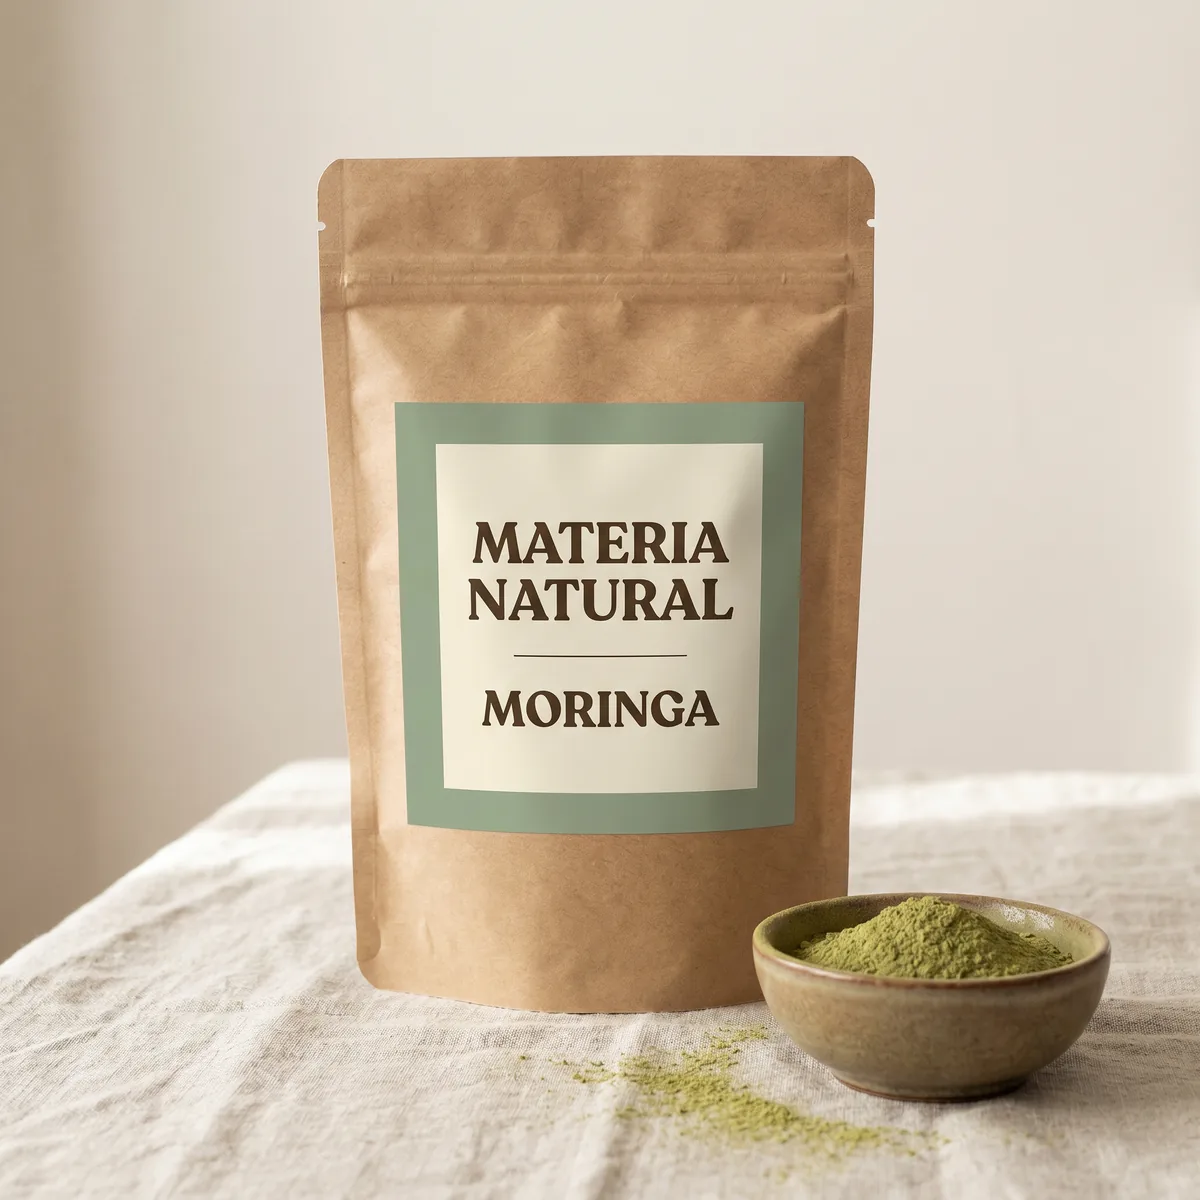
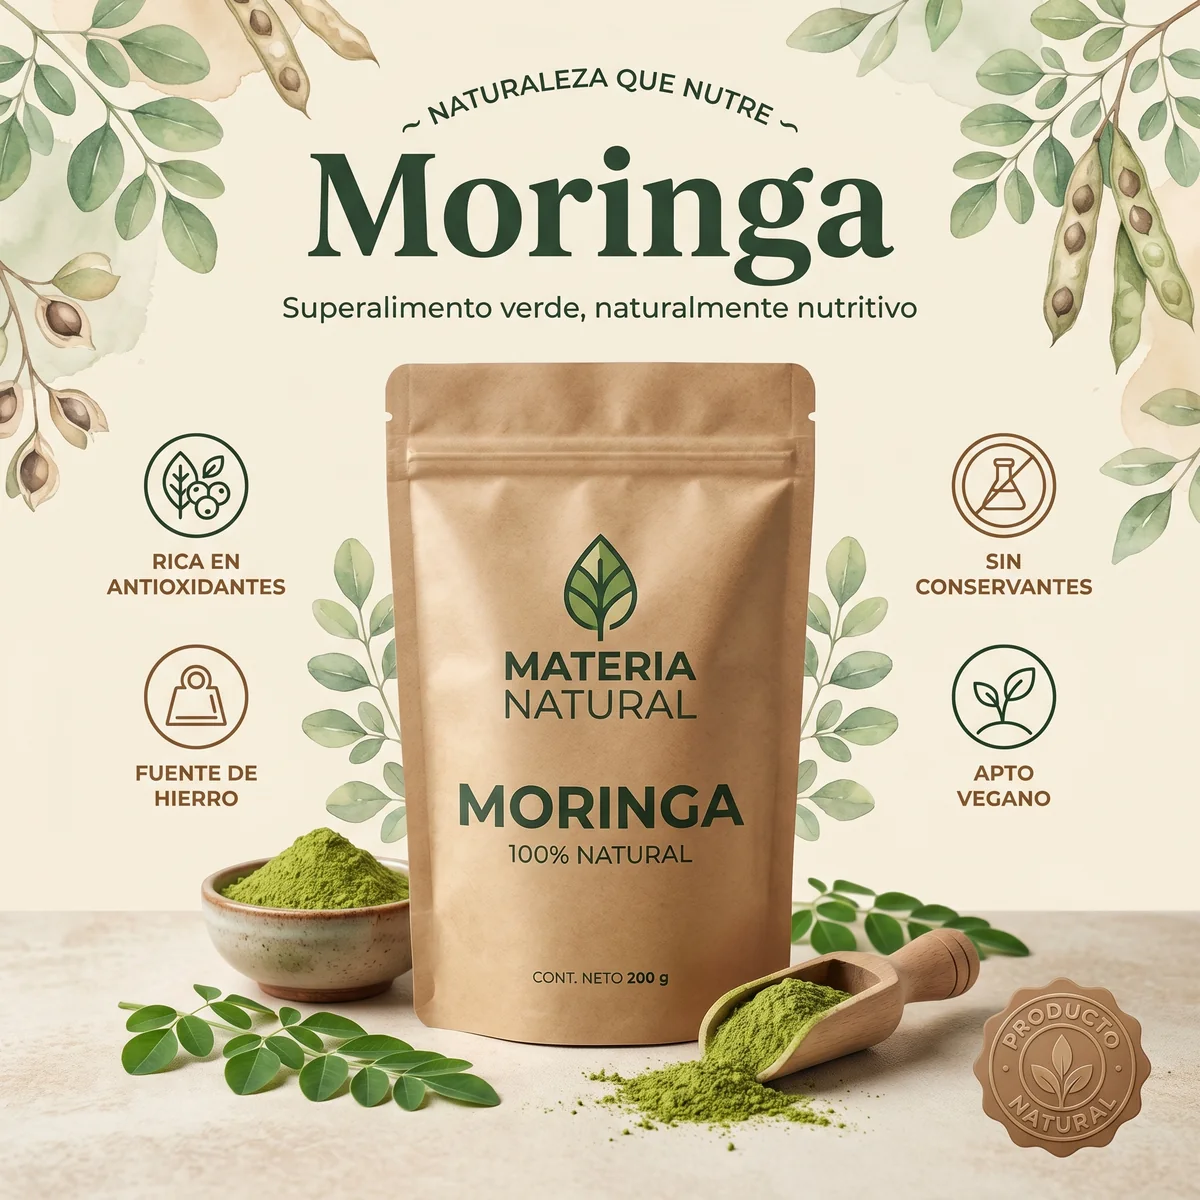
feat(catalogo): 505 productos + 2525 recetas (lote 4: medicina natural/bienestar)
+214 productos (hierbas medicinales, adaptogenos, fermentos, algas,
especias, harinas, aceites, infusiones). 5 recetas c/u via motor.
Estilo packshot rico Materia Natural confirmado (lino, moringa).

diff --git a/src/data/extraProducts4.ts b/src/data/extraProducts4.ts
@@ -1,0 +1,260 @@
+import type { SeedProduct } from './productEngine';
+
+// Catálogo extendido — Lote 4. Productos de bienestar y medicina natural
+// (hierbas, especias, adaptógenos, fermentos, algas, etc.). Lenguaje seguro:
+// el motor de fichas no hace afirmaciones médicas.
+export const extraSeeds4: SeedProduct[] = [
+  // ── Hierbas medicinales y aromáticas ──
+  { slug: 'albahaca', nombre: 'Albahaca', categoria: 'Hierba', nombreCientifico: 'Ocimum basilicum', hue: 140, casosDeUso: ['digestion'] },
+  { slug: 'perejil', nombre: 'Perejil', categoria: 'Hierba', nombreCientifico: 'Petroselinum crispum', hue: 130, casosDeUso: ['defensas', 'huesos'] },
+  { slug: 'cilantro-fresco', nombre: 'Cilantro', categoria: 'Hierba', nombreCientifico: 'Coriandrum sativum', hue: 135, casosDeUso: ['digestion'] },
+  { slug: 'estragon', nombre: 'Estragón', categoria: 'Hierba', nombreCientifico: 'Artemisia dracunculus', hue: 120, casosDeUso: ['digestion'] },
+  { slug: 'hierba-de-san-juan', nombre: 'Hierba de San Juan', categoria: 'Hierba', nombreCientifico: 'Hypericum perforatum', hue: 55, casosDeUso: ['descanso', 'mente'] },
+  { slug: 'damiana', nombre: 'Damiana', categoria: 'Hierba', nombreCientifico: 'Turnera diffusa', hue: 45, casosDeUso: ['energia', 'descanso'] },
+  { slug: 'ajenjo', nombre: 'Ajenjo', categoria: 'Hierba', nombreCientifico: 'Artemisia absinthium', hue: 110, casosDeUso: ['digestion'] },
+  { slug: 'ruda', nombre: 'Ruda', categoria: 'Hierba', nombreCientifico: 'Ruta graveolens', hue: 115, casosDeUso: ['digestion'] },
+  { slug: 'artemisa', nombre: 'Artemisa', categoria: 'Hierba', nombreCientifico: 'Artemisia vulgaris', hue: 120, casosDeUso: ['digestion', 'descanso'] },
+  { slug: 'borraja', nombre: 'Borraja', categoria: 'Hierba', nombreCientifico: 'Borago officinalis', hue: 210, casosDeUso: ['defensas', 'piel-cabello'] },
+  { slug: 'consuelda', nombre: 'Consuelda', categoria: 'Hierba', nombreCientifico: 'Symphytum officinale', hue: 150, casosDeUso: ['articulaciones', 'piel-cabello'] },
+  { slug: 'verbena', nombre: 'Verbena', categoria: 'Hierba', nombreCientifico: 'Verbena officinalis', hue: 270, casosDeUso: ['descanso', 'digestion'] },
+  { slug: 'hisopo', nombre: 'Hisopo', categoria: 'Hierba', nombreCientifico: 'Hyssopus officinalis', hue: 260, casosDeUso: ['defensas'] },
+  { slug: 'congorosa', nombre: 'Congorosa', categoria: 'Hierba', nombreCientifico: 'Maytenus ilicifolia', hue: 150, casosDeUso: ['digestion'] },
+  { slug: 'ambay', nombre: 'Ambay', categoria: 'Hierba', nombreCientifico: 'Cecropia pachystachya', hue: 140, casosDeUso: ['defensas'] },
+  { slug: 'jarilla', nombre: 'Jarilla', categoria: 'Hierba', nombreCientifico: 'Larrea divaricata', hue: 90, casosDeUso: ['articulaciones'] },
+  { slug: 'sarandi-blanco', nombre: 'Sarandí blanco', categoria: 'Hierba', nombreCientifico: 'Phyllanthus sellowianus', hue: 145, casosDeUso: ['digestion'] },
+  { slug: 'yerba-carnicera', nombre: 'Yerba carnicera', categoria: 'Hierba', nombreCientifico: 'Conyza bonariensis', hue: 120, casosDeUso: ['digestion'] },
+  { slug: 'ajedrea', nombre: 'Ajedrea', categoria: 'Hierba', nombreCientifico: 'Satureja hortensis', hue: 110, casosDeUso: ['digestion'] },
+  { slug: 'mejorana', nombre: 'Mejorana', categoria: 'Hierba', nombreCientifico: 'Origanum majorana', hue: 100, casosDeUso: ['descanso', 'digestion'] },
+  { slug: 'cardosanto', nombre: 'Cardo santo', categoria: 'Hierba', nombreCientifico: 'Cnicus benedictus', hue: 70, casosDeUso: ['digestion'] },
+  { slug: 'fumaria', nombre: 'Fumaria', categoria: 'Hierba', nombreCientifico: 'Fumaria officinalis', hue: 280, casosDeUso: ['digestion', 'piel-cabello'] },
+  { slug: 'agrimonia', nombre: 'Agrimonia', categoria: 'Hierba', nombreCientifico: 'Agrimonia eupatoria', hue: 60, casosDeUso: ['digestion'] },
+  { slug: 'menta-piperita', nombre: 'Menta piperita', categoria: 'Hierba', nombreCientifico: 'Mentha piperita', hue: 150, casosDeUso: ['digestion'] },
+  { slug: 'ortiga-blanca', nombre: 'Ortiga blanca', categoria: 'Hierba', nombreCientifico: 'Lamium album', hue: 90, casosDeUso: ['piel-cabello'] },
+  { slug: 'espino-blanco', nombre: 'Espino blanco', categoria: 'Hierba', nombreCientifico: 'Crataegus monogyna', hue: 0, casosDeUso: ['circulacion', 'descanso'] },
+  { slug: 'tulsi', nombre: 'Tulsi (albahaca sagrada)', categoria: 'Hierba', nombreCientifico: 'Ocimum tenuiflorum', hue: 130, casosDeUso: ['descanso', 'defensas'] },
+  { slug: 'ciboulette', nombre: 'Ciboulette', categoria: 'Hierba', nombreCientifico: 'Allium schoenoprasum', hue: 120, casosDeUso: ['digestion'] },
+  { slug: 'albahaca-morada', nombre: 'Albahaca morada', categoria: 'Hierba', nombreCientifico: 'Ocimum basilicum', hue: 300, casosDeUso: ['digestion'] },
+  { slug: 'menta-marroqui', nombre: 'Menta marroquí', categoria: 'Hierba', nombreCientifico: 'Mentha spicata', hue: 145, casosDeUso: ['digestion'] },
+  { slug: 'stevia-en-hojas', nombre: 'Stevia en hojas', categoria: 'Hierba', nombreCientifico: 'Stevia rebaudiana', hue: 130, casosDeUso: ['control-peso'] },
+  { slug: 'matico', nombre: 'Matico', categoria: 'Hierba', nombreCientifico: 'Buddleja globosa', hue: 60, casosDeUso: ['digestion'] },
+  { slug: 'bailahuen', nombre: 'Bailahuén', categoria: 'Hierba', nombreCientifico: 'Haplopappus baylahuen', hue: 55, casosDeUso: ['digestion'] },
+  { slug: 'paico', nombre: 'Paico', categoria: 'Hierba', nombreCientifico: 'Dysphania ambrosioides', hue: 120, casosDeUso: ['digestion'] },
+  { slug: 'manzanilla-romana', nombre: 'Manzanilla romana', categoria: 'Hierba', nombreCientifico: 'Chamaemelum nobile', hue: 60, casosDeUso: ['descanso'] },
+  { slug: 'amapola-de-california', nombre: 'Amapola de California', categoria: 'Hierba', nombreCientifico: 'Eschscholzia californica', hue: 40, casosDeUso: ['descanso'] },
+  { slug: 'tomillo-limon', nombre: 'Tomillo limón', categoria: 'Hierba', nombreCientifico: 'Thymus citriodorus', hue: 70, casosDeUso: ['defensas'] },
+
+  // ── Superalimentos y adaptógenos ──
+  { slug: 'ashwagandha', nombre: 'Ashwagandha', categoria: 'Superalimento', nombreCientifico: 'Withania somnifera', hue: 40, casosDeUso: ['descanso', 'mente'] },
+  { slug: 'rhodiola', nombre: 'Rhodiola', categoria: 'Superalimento', nombreCientifico: 'Rhodiola rosea', hue: 350, casosDeUso: ['energia', 'mente'] },
+  { slug: 'schisandra', nombre: 'Schisandra', categoria: 'Superalimento', nombreCientifico: 'Schisandra chinensis', hue: 10, casosDeUso: ['energia', 'defensas'] },
+  { slug: 'astragalo', nombre: 'Astrágalo', categoria: 'Superalimento', nombreCientifico: 'Astragalus membranaceus', hue: 50, casosDeUso: ['defensas'] },
+  { slug: 'chaga', nombre: 'Chaga', categoria: 'Superalimento', nombreCientifico: 'Inonotus obliquus', hue: 30, casosDeUso: ['defensas'] },
+  { slug: 'shiitake', nombre: 'Shiitake', categoria: 'Superalimento', nombreCientifico: 'Lentinula edodes', hue: 35, casosDeUso: ['defensas'] },
+  { slug: 'maitake', nombre: 'Maitake', categoria: 'Superalimento', nombreCientifico: 'Grifola frondosa', hue: 40, casosDeUso: ['defensas'] },
+  { slug: 'tribulus', nombre: 'Tríbulus', categoria: 'Superalimento', nombreCientifico: 'Tribulus terrestris', hue: 55, casosDeUso: ['energia'] },
+  { slug: 'clorofila', nombre: 'Clorofila', categoria: 'Superalimento', hue: 140, casosDeUso: ['defensas', 'piel-cabello'] },
+  { slug: 'noni', nombre: 'Noni', categoria: 'Superalimento', nombreCientifico: 'Morinda citrifolia', hue: 45, casosDeUso: ['defensas'] },
+  { slug: 'mangostan', nombre: 'Mangostán', categoria: 'Superalimento', nombreCientifico: 'Garcinia mangostana', hue: 330, casosDeUso: ['defensas'] },
+  { slug: 'aronia', nombre: 'Aronia', categoria: 'Superalimento', nombreCientifico: 'Aronia melanocarpa', hue: 300, casosDeUso: ['circulacion', 'defensas'] },
+  { slug: 'algarroba', nombre: 'Algarroba en polvo', categoria: 'Superalimento', nombreCientifico: 'Prosopis alba', hue: 35, casosDeUso: ['energia', 'digestion'] },
+  { slug: 'acerola', nombre: 'Acerola', categoria: 'Superalimento', nombreCientifico: 'Malpighia emarginata', hue: 10, casosDeUso: ['defensas'] },
+  { slug: 'rosa-mosqueta', nombre: 'Rosa mosqueta', categoria: 'Superalimento', nombreCientifico: 'Rosa canina', hue: 20, casosDeUso: ['piel-cabello', 'defensas'] },
+  { slug: 'lecitina-de-soja', nombre: 'Lecitina de soja', categoria: 'Superalimento', nombreCientifico: 'Glycine max', hue: 50, casosDeUso: ['mente', 'circulacion'] },
+  { slug: 'colageno-hidrolizado', nombre: 'Colágeno hidrolizado', categoria: 'Superalimento', hue: 30, casosDeUso: ['piel-cabello', 'articulaciones'] },
+  { slug: 'colageno-marino', nombre: 'Colágeno marino', categoria: 'Superalimento', hue: 200, casosDeUso: ['piel-cabello'] },
+  { slug: 'acido-hialuronico', nombre: 'Ácido hialurónico', categoria: 'Superalimento', hue: 280, casosDeUso: ['piel-cabello'] },
+  { slug: 'magnesio-en-polvo', nombre: 'Magnesio en polvo', categoria: 'Superalimento', hue: 200, casosDeUso: ['descanso', 'articulaciones'] },
+  { slug: 'proteina-de-suero', nombre: 'Proteína de suero', categoria: 'Superalimento', hue: 40, casosDeUso: ['energia', 'articulaciones'] },
+  { slug: 'proteina-vegetal-mix', nombre: 'Proteína vegetal (mix)', categoria: 'Superalimento', hue: 120, casosDeUso: ['energia'] },
+  { slug: 'cacao-crudo', nombre: 'Cacao crudo', categoria: 'Superalimento', nombreCientifico: 'Theobroma cacao', hue: 30, casosDeUso: ['mente', 'energia'] },
+  { slug: 'omega-3-vegetal', nombre: 'Omega 3 vegetal', categoria: 'Superalimento', hue: 200, casosDeUso: ['mente', 'circulacion'] },
+  { slug: 'fibra-de-acacia', nombre: 'Fibra de acacia', categoria: 'Superalimento', nombreCientifico: 'Acacia senegal', hue: 50, casosDeUso: ['digestion'] },
+  { slug: 'inulina', nombre: 'Inulina', categoria: 'Superalimento', hue: 60, casosDeUso: ['digestion'] },
+  { slug: 'maca-negra', nombre: 'Maca negra', categoria: 'Superalimento', nombreCientifico: 'Lepidium meyenii', hue: 280, casosDeUso: ['energia'] },
+
+  // ── Raíces ──
+  { slug: 'angelica', nombre: 'Angélica', categoria: 'Raíz', nombreCientifico: 'Angelica archangelica', hue: 60, casosDeUso: ['digestion'] },
+  { slug: 'galanga', nombre: 'Galanga', categoria: 'Raíz', nombreCientifico: 'Alpinia galanga', hue: 45, casosDeUso: ['digestion'] },
+  { slug: 'eleuterococo', nombre: 'Eleuterococo', categoria: 'Raíz', nombreCientifico: 'Eleutherococcus senticosus', hue: 40, casosDeUso: ['energia'] },
+  { slug: 'helenio', nombre: 'Helenio', categoria: 'Raíz', nombreCientifico: 'Inula helenium', hue: 55, casosDeUso: ['defensas'] },
+  { slug: 'ratania', nombre: 'Ratania', categoria: 'Raíz', nombreCientifico: 'Krameria lappacea', hue: 20, casosDeUso: ['digestion'] },
+  { slug: 'raiz-de-malvavisco', nombre: 'Raíz de malvavisco', categoria: 'Raíz', nombreCientifico: 'Althaea officinalis', hue: 60, casosDeUso: ['digestion'] },
+  { slug: 'ginseng-rojo', nombre: 'Ginseng rojo', categoria: 'Raíz', nombreCientifico: 'Panax ginseng', hue: 20, casosDeUso: ['energia'] },
+  { slug: 'rabano-negro', nombre: 'Rábano negro', categoria: 'Raíz', nombreCientifico: 'Raphanus sativus niger', hue: 280, casosDeUso: ['digestion', 'defensas'] },
+
+  // ── Especias ──
+  { slug: 'pimienta-de-cayena', nombre: 'Pimienta de cayena', categoria: 'Especia', nombreCientifico: 'Capsicum annuum', hue: 25, casosDeUso: ['circulacion', 'energia'] },
+  { slug: 'pimienta-rosa', nombre: 'Pimienta rosa', categoria: 'Especia', nombreCientifico: 'Schinus molle', hue: 350, casosDeUso: ['digestion'] },
+  { slug: 'pimienta-de-jamaica', nombre: 'Pimienta de Jamaica', categoria: 'Especia', nombreCientifico: 'Pimenta dioica', hue: 30, casosDeUso: ['digestion'] },
+  { slug: 'semillas-de-apio', nombre: 'Semillas de apio', categoria: 'Especia', nombreCientifico: 'Apium graveolens', hue: 80, casosDeUso: ['articulaciones'] },
+  { slug: 'comino-negro', nombre: 'Comino negro', categoria: 'Especia', nombreCientifico: 'Nigella sativa', hue: 250, casosDeUso: ['defensas', 'digestion'] },
+  { slug: 'alcaravea', nombre: 'Alcaravea', categoria: 'Especia', nombreCientifico: 'Carum carvi', hue: 70, casosDeUso: ['digestion'] },
+  { slug: 'enebro', nombre: 'Enebro', categoria: 'Especia', nombreCientifico: 'Juniperus communis', hue: 200, casosDeUso: ['articulaciones', 'digestion'] },
+  { slug: 'sumac', nombre: 'Sumac', categoria: 'Especia', nombreCientifico: 'Rhus coriaria', hue: 20, casosDeUso: ['defensas'] },
+  { slug: 'anis-verde', nombre: 'Anís verde', categoria: 'Especia', nombreCientifico: 'Pimpinella anisum', hue: 70, casosDeUso: ['digestion'] },
+  { slug: 'garam-masala', nombre: 'Garam masala', categoria: 'Especia', hue: 30, casosDeUso: ['digestion'] },
+  { slug: 'ras-el-hanout', nombre: 'Ras el hanout', categoria: 'Especia', hue: 30, casosDeUso: ['digestion'] },
+  { slug: 'zaatar', nombre: 'Zaatar', categoria: 'Especia', hue: 60, casosDeUso: ['digestion'] },
+  { slug: 'jengibre-en-polvo', nombre: 'Jengibre en polvo', categoria: 'Especia', nombreCientifico: 'Zingiber officinale', hue: 45, casosDeUso: ['digestion'] },
+  { slug: 'ajo-negro', nombre: 'Ajo negro', categoria: 'Especia', nombreCientifico: 'Allium sativum', hue: 30, casosDeUso: ['circulacion', 'defensas'] },
+  { slug: 'pimienta-verde', nombre: 'Pimienta verde', categoria: 'Especia', nombreCientifico: 'Piper nigrum', hue: 130, casosDeUso: ['digestion'] },
+  { slug: 'pimienta-szechuan', nombre: 'Pimienta de Szechuan', categoria: 'Especia', nombreCientifico: 'Zanthoxylum', hue: 20, casosDeUso: ['digestion'] },
+  { slug: 'wasabi-en-polvo', nombre: 'Wasabi en polvo', categoria: 'Especia', nombreCientifico: 'Eutrema japonicum', hue: 120, casosDeUso: ['defensas'] },
+  { slug: 'achiote', nombre: 'Achiote (urucum)', categoria: 'Especia', nombreCientifico: 'Bixa orellana', hue: 25, casosDeUso: ['piel-cabello'] },
+  { slug: 'curry-rojo', nombre: 'Curry rojo', categoria: 'Especia', hue: 20, casosDeUso: ['digestion'] },
+  { slug: 'curry-verde', nombre: 'Curry verde', categoria: 'Especia', hue: 120, casosDeUso: ['digestion'] },
+  { slug: 'chile-chipotle', nombre: 'Chile chipotle', categoria: 'Especia', nombreCientifico: 'Capsicum annuum', hue: 25, casosDeUso: ['circulacion'] },
+  { slug: 'pimenton-ahumado', nombre: 'Pimentón ahumado', categoria: 'Especia', nombreCientifico: 'Capsicum annuum', hue: 20, casosDeUso: ['digestion'] },
+
+  // ── Semillas ──
+  { slug: 'psyllium', nombre: 'Psyllium', categoria: 'Semilla', nombreCientifico: 'Plantago ovata', hue: 60, casosDeUso: ['digestion', 'control-peso'] },
+  { slug: 'semillas-de-lino-molido', nombre: 'Lino molido', categoria: 'Semilla', nombreCientifico: 'Linum usitatissimum', hue: 40, casosDeUso: ['digestion'] },
+  { slug: 'semillas-de-girasol-tostadas', nombre: 'Girasol tostado', categoria: 'Semilla', nombreCientifico: 'Helianthus annuus', hue: 60, casosDeUso: ['energia'] },
+  { slug: 'semillas-de-brocoli', nombre: 'Semillas de brócoli', categoria: 'Semilla', nombreCientifico: 'Brassica oleracea', hue: 120, casosDeUso: ['defensas'] },
+  { slug: 'semillas-de-alfalfa', nombre: 'Semillas de alfalfa', categoria: 'Semilla', nombreCientifico: 'Medicago sativa', hue: 110, casosDeUso: ['defensas'] },
+
+  // ── Frutas secas / deshidratadas ──
+  { slug: 'aguaymanto', nombre: 'Aguaymanto deshidratado', categoria: 'Fruta seca', nombreCientifico: 'Physalis peruviana', hue: 50, casosDeUso: ['defensas'] },
+  { slug: 'mora-deshidratada', nombre: 'Mora deshidratada', categoria: 'Fruta seca', hue: 310, casosDeUso: ['defensas'] },
+  { slug: 'durazno-deshidratado', nombre: 'Durazno deshidratado', categoria: 'Fruta seca', hue: 30, casosDeUso: ['digestion'] },
+  { slug: 'naranja-deshidratada', nombre: 'Naranja deshidratada', categoria: 'Fruta seca', hue: 40, casosDeUso: ['defensas'] },
+  { slug: 'limon-deshidratado', nombre: 'Limón deshidratado', categoria: 'Fruta seca', hue: 70, casosDeUso: ['defensas'] },
+  { slug: 'tomate-deshidratado', nombre: 'Tomate deshidratado', categoria: 'Fruta seca', hue: 20, casosDeUso: ['digestion'] },
+  { slug: 'frutilla-liofilizada', nombre: 'Frutilla liofilizada', categoria: 'Fruta seca', hue: 350, casosDeUso: ['defensas'] },
+  { slug: 'arandano-azul-seco', nombre: 'Arándano azul seco', categoria: 'Fruta seca', hue: 260, casosDeUso: ['mente', 'defensas'] },
+  { slug: 'grosella-seca', nombre: 'Grosella seca', categoria: 'Fruta seca', hue: 330, casosDeUso: ['defensas'] },
+  { slug: 'membrillo-deshidratado', nombre: 'Membrillo deshidratado', categoria: 'Fruta seca', hue: 40, casosDeUso: ['digestion'] },
+  { slug: 'melon-deshidratado', nombre: 'Melón deshidratado', categoria: 'Fruta seca', hue: 60, casosDeUso: ['energia'] },
+
+  // ── Legumbres ──
+  { slug: 'lenteja-verde', nombre: 'Lenteja verde', categoria: 'Legumbre', nombreCientifico: 'Lens culinaris', hue: 90, casosDeUso: ['energia', 'huesos'] },
+  { slug: 'lenteja-beluga', nombre: 'Lenteja beluga', categoria: 'Legumbre', nombreCientifico: 'Lens culinaris', hue: 280, casosDeUso: ['energia'] },
+  { slug: 'garbanzo-negro', nombre: 'Garbanzo negro', categoria: 'Legumbre', nombreCientifico: 'Cicer arietinum', hue: 30, casosDeUso: ['energia'] },
+  { slug: 'poroto-cranberry', nombre: 'Poroto cranberry', categoria: 'Legumbre', hue: 20, casosDeUso: ['energia'] },
+  { slug: 'frijol-pinto', nombre: 'Frijol pinto', categoria: 'Legumbre', hue: 30, casosDeUso: ['energia'] },
+  { slug: 'poroto-caupi', nombre: 'Poroto caupí', categoria: 'Legumbre', nombreCientifico: 'Vigna unguiculata', hue: 50, casosDeUso: ['energia'] },
+  { slug: 'lupino', nombre: 'Lupino', categoria: 'Legumbre', nombreCientifico: 'Lupinus albus', hue: 60, casosDeUso: ['energia'] },
+  { slug: 'soja-negra', nombre: 'Soja negra', categoria: 'Legumbre', nombreCientifico: 'Glycine max', hue: 280, casosDeUso: ['energia'] },
+  { slug: 'garbanzo-tostado', nombre: 'Garbanzo tostado', categoria: 'Legumbre', nombreCientifico: 'Cicer arietinum', hue: 40, casosDeUso: ['energia', 'control-peso'] },
+  { slug: 'lenteja-pardina', nombre: 'Lenteja pardina', categoria: 'Legumbre', nombreCientifico: 'Lens culinaris', hue: 40, casosDeUso: ['energia'] },
+  { slug: 'tofu', nombre: 'Tofu', categoria: 'Legumbre', nombreCientifico: 'Glycine max', hue: 60, casosDeUso: ['energia', 'huesos'] },
+
+  // ── Cereales ──
+  { slug: 'kamut', nombre: 'Kamut', categoria: 'Cereal', nombreCientifico: 'Triticum turanicum', hue: 60, casosDeUso: ['energia'] },
+  { slug: 'espelta', nombre: 'Espelta', categoria: 'Cereal', nombreCientifico: 'Triticum spelta', hue: 55, casosDeUso: ['energia'] },
+  { slug: 'sorgo', nombre: 'Sorgo', categoria: 'Cereal', nombreCientifico: 'Sorghum bicolor', hue: 50, casosDeUso: ['energia'] },
+  { slug: 'freekeh', nombre: 'Freekeh', categoria: 'Cereal', hue: 70, casosDeUso: ['energia'] },
+  { slug: 'arroz-salvaje', nombre: 'Arroz salvaje', categoria: 'Cereal', nombreCientifico: 'Zizania', hue: 120, casosDeUso: ['energia'] },
+  { slug: 'maiz-morado', nombre: 'Maíz morado', categoria: 'Cereal', nombreCientifico: 'Zea mays', hue: 300, casosDeUso: ['circulacion', 'defensas'] },
+  { slug: 'copos-de-trigo', nombre: 'Copos de trigo', categoria: 'Cereal', hue: 60, casosDeUso: ['energia'] },
+  { slug: 'avena-sin-gluten', nombre: 'Avena sin gluten', categoria: 'Cereal', nombreCientifico: 'Avena sativa', hue: 60, casosDeUso: ['energia', 'digestion'] },
+  { slug: 'arroz-jazmin', nombre: 'Arroz jazmín', categoria: 'Cereal', nombreCientifico: 'Oryza sativa', hue: 65, casosDeUso: ['energia'] },
+  { slug: 'arroz-negro', nombre: 'Arroz negro', categoria: 'Cereal', nombreCientifico: 'Oryza sativa', hue: 280, casosDeUso: ['circulacion'] },
+  { slug: 'copos-de-centeno', nombre: 'Copos de centeno', categoria: 'Cereal', hue: 60, casosDeUso: ['digestion'] },
+  { slug: 'copos-de-cebada', nombre: 'Copos de cebada', categoria: 'Cereal', hue: 65, casosDeUso: ['digestion'] },
+  { slug: 'trigo-inflado', nombre: 'Trigo inflado', categoria: 'Cereal', hue: 65, casosDeUso: ['energia'] },
+  { slug: 'arroz-inflado', nombre: 'Arroz inflado', categoria: 'Cereal', hue: 65, casosDeUso: ['energia'] },
+
+  // ── Pseudocereales ──
+  { slug: 'teff', nombre: 'Teff', categoria: 'Pseudocereal', nombreCientifico: 'Eragrostis tef', hue: 35, casosDeUso: ['energia', 'huesos'] },
+  { slug: 'kaniwa', nombre: 'Kañiwa', categoria: 'Pseudocereal', nombreCientifico: 'Chenopodium pallidicaule', hue: 30, casosDeUso: ['energia'] },
+
+  // ── Harinas ──
+  { slug: 'harina-de-avellanas', nombre: 'Harina de avellanas', categoria: 'Harina', nombreCientifico: 'Corylus avellana', hue: 35, casosDeUso: ['energia'] },
+  { slug: 'harina-de-sesamo', nombre: 'Harina de sésamo', categoria: 'Harina', nombreCientifico: 'Sesamum indicum', hue: 55, casosDeUso: ['huesos'] },
+  { slug: 'harina-de-girasol', nombre: 'Harina de girasol', categoria: 'Harina', nombreCientifico: 'Helianthus annuus', hue: 60, casosDeUso: ['energia'] },
+  { slug: 'harina-de-banana-verde', nombre: 'Harina de banana verde', categoria: 'Harina', nombreCientifico: 'Musa', hue: 60, casosDeUso: ['digestion'] },
+  { slug: 'harina-de-lenteja', nombre: 'Harina de lenteja', categoria: 'Harina', nombreCientifico: 'Lens culinaris', hue: 30, casosDeUso: ['energia'] },
+  { slug: 'harina-de-arveja', nombre: 'Harina de arveja', categoria: 'Harina', nombreCientifico: 'Pisum sativum', hue: 90, casosDeUso: ['energia'] },
+  { slug: 'harina-de-chia', nombre: 'Harina de chía', categoria: 'Harina', nombreCientifico: 'Salvia hispanica', hue: 55, casosDeUso: ['digestion'] },
+  { slug: 'harina-de-teff', nombre: 'Harina de teff', categoria: 'Harina', nombreCientifico: 'Eragrostis tef', hue: 35, casosDeUso: ['energia'] },
+
+  // ── Aceites ──
+  { slug: 'aceite-de-canamo', nombre: 'Aceite de cáñamo', categoria: 'Aceite', nombreCientifico: 'Cannabis sativa', hue: 120, casosDeUso: ['articulaciones', 'piel-cabello'] },
+  { slug: 'aceite-de-rosa-mosqueta', nombre: 'Aceite de rosa mosqueta', categoria: 'Aceite', nombreCientifico: 'Rosa canina', hue: 20, casosDeUso: ['piel-cabello'] },
+  { slug: 'aceite-de-ricino', nombre: 'Aceite de ricino', categoria: 'Aceite', nombreCientifico: 'Ricinus communis', hue: 60, casosDeUso: ['piel-cabello'] },
+  { slug: 'aceite-de-nuez', nombre: 'Aceite de nuez', categoria: 'Aceite', nombreCientifico: 'Juglans regia', hue: 45, casosDeUso: ['mente', 'circulacion'] },
+  { slug: 'aceite-de-comino-negro', nombre: 'Aceite de comino negro', categoria: 'Aceite', nombreCientifico: 'Nigella sativa', hue: 40, casosDeUso: ['defensas'] },
+  { slug: 'aceite-mct', nombre: 'Aceite MCT', categoria: 'Aceite', hue: 60, casosDeUso: ['energia', 'control-peso'] },
+  { slug: 'aceite-de-jojoba', nombre: 'Aceite de jojoba', categoria: 'Aceite', nombreCientifico: 'Simmondsia chinensis', hue: 55, casosDeUso: ['piel-cabello'] },
+  { slug: 'aceite-de-argan', nombre: 'Aceite de argán', categoria: 'Aceite', nombreCientifico: 'Argania spinosa', hue: 45, casosDeUso: ['piel-cabello'] },
+  { slug: 'aceite-de-onagra', nombre: 'Aceite de onagra', categoria: 'Aceite', nombreCientifico: 'Oenothera biennis', hue: 330, casosDeUso: ['piel-cabello'] },
+  { slug: 'aceite-de-sesamo-tostado', nombre: 'Aceite de sésamo tostado', categoria: 'Aceite', nombreCientifico: 'Sesamum indicum', hue: 40, casosDeUso: ['digestion'] },
+  { slug: 'aceite-de-zapallo', nombre: 'Aceite de zapallo', categoria: 'Aceite', nombreCientifico: 'Cucurbita', hue: 60, casosDeUso: ['articulaciones'] },
+
+  // ── Infusiones ──
+  { slug: 'te-oolong', nombre: 'Té oolong', categoria: 'Infusión', nombreCientifico: 'Camellia sinensis', hue: 60, casosDeUso: ['control-peso', 'mente'] },
+  { slug: 'te-de-jengibre', nombre: 'Té de jengibre', categoria: 'Infusión', nombreCientifico: 'Zingiber officinale', hue: 45, casosDeUso: ['digestion'] },
+  { slug: 'te-de-menta', nombre: 'Té de menta', categoria: 'Infusión', nombreCientifico: 'Mentha', hue: 150, casosDeUso: ['digestion'] },
+  { slug: 'te-de-canela', nombre: 'Té de canela', categoria: 'Infusión', hue: 30, casosDeUso: ['circulacion'] },
+  { slug: 'te-de-curcuma', nombre: 'Té de cúrcuma', categoria: 'Infusión', nombreCientifico: 'Curcuma longa', hue: 45, casosDeUso: ['articulaciones'] },
+  { slug: 'tisana-detox', nombre: 'Tisana detox', categoria: 'Infusión', hue: 130, casosDeUso: ['control-peso'] },
+  { slug: 'tisana-defensas', nombre: 'Tisana defensas', categoria: 'Infusión', hue: 30, casosDeUso: ['defensas'] },
+  { slug: 'tisana-circulacion', nombre: 'Tisana circulación', categoria: 'Infusión', hue: 0, casosDeUso: ['circulacion'] },
+  { slug: 'te-pu-erh', nombre: 'Té pu-erh', categoria: 'Infusión', nombreCientifico: 'Camellia sinensis', hue: 30, casosDeUso: ['control-peso', 'digestion'] },
+  { slug: 'te-de-rosa-mosqueta', nombre: 'Té de rosa mosqueta', categoria: 'Infusión', nombreCientifico: 'Rosa canina', hue: 20, casosDeUso: ['piel-cabello'] },
+  { slug: 'tisana-energia', nombre: 'Tisana energía', categoria: 'Infusión', hue: 70, casosDeUso: ['energia'] },
+  { slug: 'tisana-piel', nombre: 'Tisana piel', categoria: 'Infusión', hue: 25, casosDeUso: ['piel-cabello'] },
+  { slug: 'te-de-ortiga', nombre: 'Té de ortiga', categoria: 'Infusión', nombreCientifico: 'Urtica dioica', hue: 110, casosDeUso: ['piel-cabello'] },
+
+  // ── Untables ──
+  { slug: 'manteca-de-girasol', nombre: 'Manteca de girasol', categoria: 'Untable', nombreCientifico: 'Helianthus annuus', hue: 60, casosDeUso: ['energia'] },
+  { slug: 'crema-de-avellanas', nombre: 'Crema de avellanas', categoria: 'Untable', nombreCientifico: 'Corylus avellana', hue: 35, casosDeUso: ['energia'] },
+  { slug: 'manteca-de-nuez', nombre: 'Manteca de nuez', categoria: 'Untable', nombreCientifico: 'Juglans regia', hue: 45, casosDeUso: ['mente'] },
+  { slug: 'pasta-de-aceitunas', nombre: 'Pasta de aceitunas', categoria: 'Untable', nombreCientifico: 'Olea europaea', hue: 90, casosDeUso: ['digestion'] },
+  { slug: 'manteca-de-coco', nombre: 'Manteca de coco', categoria: 'Untable', nombreCientifico: 'Cocos nucifera', hue: 55, casosDeUso: ['energia'] },
+  { slug: 'mermelada-sin-azucar', nombre: 'Mermelada sin azúcar', categoria: 'Untable', hue: 340, casosDeUso: ['digestion'] },
+
+  // ── Algas ──
+  { slug: 'dulse', nombre: 'Dulse', categoria: 'Alga', nombreCientifico: 'Palmaria palmata', hue: 10, casosDeUso: ['defensas', 'huesos'] },
+  { slug: 'musgo-irlandes', nombre: 'Musgo irlandés', categoria: 'Alga', nombreCientifico: 'Chondrus crispus', hue: 40, casosDeUso: ['defensas'] },
+  { slug: 'hijiki', nombre: 'Hijiki', categoria: 'Alga', nombreCientifico: 'Sargassum fusiforme', hue: 30, casosDeUso: ['huesos'] },
+  { slug: 'arame', nombre: 'Arame', categoria: 'Alga', nombreCientifico: 'Eisenia bicyclis', hue: 35, casosDeUso: ['huesos'] },
+  { slug: 'kelp', nombre: 'Kelp', categoria: 'Alga', nombreCientifico: 'Laminaria', hue: 40, casosDeUso: ['huesos', 'defensas'] },
+  { slug: 'lechuga-de-mar', nombre: 'Lechuga de mar', categoria: 'Alga', nombreCientifico: 'Ulva lactuca', hue: 130, casosDeUso: ['huesos'] },
+
+  // ── Endulzantes ──
+  { slug: 'sirope-de-yacon', nombre: 'Sirope de yacón', categoria: 'Endulzante', nombreCientifico: 'Smallanthus sonchifolius', hue: 40, casosDeUso: ['digestion'] },
+  { slug: 'monk-fruit', nombre: 'Monk fruit', categoria: 'Endulzante', nombreCientifico: 'Siraitia grosvenorii', hue: 30, casosDeUso: ['control-peso'] },
+  { slug: 'azucar-de-datil', nombre: 'Azúcar de dátil', categoria: 'Endulzante', nombreCientifico: 'Phoenix dactylifera', hue: 35, casosDeUso: ['energia'] },
+  { slug: 'jarabe-de-datil', nombre: 'Jarabe de dátil', categoria: 'Endulzante', nombreCientifico: 'Phoenix dactylifera', hue: 30, casosDeUso: ['energia'] },
+  { slug: 'jarabe-de-malta', nombre: 'Jarabe de malta', categoria: 'Endulzante', hue: 45, casosDeUso: ['energia'] },
+  { slug: 'stevia-liquida', nombre: 'Stevia líquida', categoria: 'Endulzante', nombreCientifico: 'Stevia rebaudiana', hue: 130, casosDeUso: ['control-peso'] },
+
+  // ── Productos apícolas ──
+  { slug: 'miel-de-eucalipto', nombre: 'Miel de eucalipto', categoria: 'Producto apícola', hue: 40, casosDeUso: ['defensas'] },
+  { slug: 'miel-de-romero', nombre: 'Miel de romero', categoria: 'Producto apícola', hue: 55, casosDeUso: ['digestion'] },
+  { slug: 'miel-de-tilo', nombre: 'Miel de tilo', categoria: 'Producto apícola', hue: 50, casosDeUso: ['descanso'] },
+  { slug: 'miel-cremosa', nombre: 'Miel cremosa', categoria: 'Producto apícola', hue: 45, casosDeUso: ['energia'] },
+  { slug: 'miel-de-azahar', nombre: 'Miel de azahar', categoria: 'Producto apícola', hue: 55, casosDeUso: ['descanso'] },
+
+  // ── Fermentados ──
+  { slug: 'chucrut', nombre: 'Chucrut', categoria: 'Fermentado', hue: 30, casosDeUso: ['digestion', 'defensas'] },
+  { slug: 'kombucha', nombre: 'Kombucha', categoria: 'Fermentado', hue: 40, casosDeUso: ['digestion'] },
+  { slug: 'kefir', nombre: 'Kéfir', categoria: 'Fermentado', hue: 50, casosDeUso: ['digestion', 'defensas'] },
+  { slug: 'kimchi', nombre: 'Kimchi', categoria: 'Fermentado', hue: 20, casosDeUso: ['digestion'] },
+  { slug: 'tempeh', nombre: 'Tempeh', categoria: 'Fermentado', nombreCientifico: 'Glycine max', hue: 40, casosDeUso: ['energia', 'digestion'] },
+  { slug: 'natto', nombre: 'Natto', categoria: 'Fermentado', nombreCientifico: 'Glycine max', hue: 60, casosDeUso: ['huesos', 'circulacion'] },
+  { slug: 'tamari', nombre: 'Tamari', categoria: 'Fermentado', hue: 30, casosDeUso: ['digestion'] },
+  { slug: 'vinagre-de-arroz', nombre: 'Vinagre de arroz', categoria: 'Fermentado', hue: 60, casosDeUso: ['digestion'] },
+  { slug: 'vinagre-de-coco', nombre: 'Vinagre de coco', categoria: 'Fermentado', nombreCientifico: 'Cocos nucifera', hue: 45, casosDeUso: ['digestion'] },
+
+  // ── Condimentos ──
+  { slug: 'sal-de-apio', nombre: 'Sal de apio', categoria: 'Condimento', hue: 80, casosDeUso: ['digestion'] },
+  { slug: 'sal-negra', nombre: 'Sal negra (kala namak)', categoria: 'Condimento', hue: 40, casosDeUso: ['digestion'] },
+  { slug: 'furikake', nombre: 'Furikake', categoria: 'Condimento', hue: 30, casosDeUso: ['digestion'] },
+  { slug: 'dukkah', nombre: 'Dukkah', categoria: 'Condimento', hue: 40, casosDeUso: ['digestion'] },
+  { slug: 'sal-ahumada', nombre: 'Sal ahumada', categoria: 'Condimento', hue: 30, casosDeUso: ['digestion'] },
+  { slug: 'caldo-de-verduras-en-polvo', nombre: 'Caldo de verduras en polvo', categoria: 'Condimento', hue: 60, casosDeUso: ['digestion'] },
+  { slug: 'chimichurri-seco', nombre: 'Chimichurri seco', categoria: 'Condimento', hue: 110, casosDeUso: ['digestion'] },
+
+  // ── Frutos secos ──
+  { slug: 'nuez-de-tigre', nombre: 'Nuez de tigre (chufa)', categoria: 'Fruto seco', nombreCientifico: 'Cyperus esculentus', hue: 50, casosDeUso: ['digestion'] },
+  { slug: 'mix-keto', nombre: 'Mix keto', categoria: 'Fruto seco', hue: 40, casosDeUso: ['control-peso'] },
+
+  // ── Coco ──
+  { slug: 'crema-de-coco', nombre: 'Crema de coco', categoria: 'Coco', nombreCientifico: 'Cocos nucifera', hue: 55, casosDeUso: ['energia'] },
+  { slug: 'yogur-de-coco', nombre: 'Yogur de coco', categoria: 'Coco', nombreCientifico: 'Cocos nucifera', hue: 60, casosDeUso: ['digestion'] },
+  { slug: 'aminos-de-coco', nombre: 'Aminos de coco', categoria: 'Coco', nombreCientifico: 'Cocos nucifera', hue: 40, casosDeUso: ['digestion'] },
+  { slug: 'leche-de-coco-en-polvo', nombre: 'Leche de coco en polvo', categoria: 'Coco', nombreCientifico: 'Cocos nucifera', hue: 55, casosDeUso: ['energia'] },
+];

diff --git a/src/data/products.ts b/src/data/products.ts
@@ -3,6 +3,7 @@ import { buildProducts } from './productEngine';
 import { extraSeeds } from './extraProducts';
 import { extraSeeds2 } from './extraProducts2';
 import { extraSeeds3 } from './extraProducts3';
+import { extraSeeds4 } from './extraProducts4';
 
 const FAQ_BASE = [
   {
@@ -1277,6 +1278,7 @@ export const products: Product[] = [
   ...buildProducts(extraSeeds),
   ...buildProducts(extraSeeds2),
   ...buildProducts(extraSeeds3),
+  ...buildProducts(extraSeeds4),
 ];
 
 export const allProductSlugs = (): string[] => products.map((p) => p.slug);